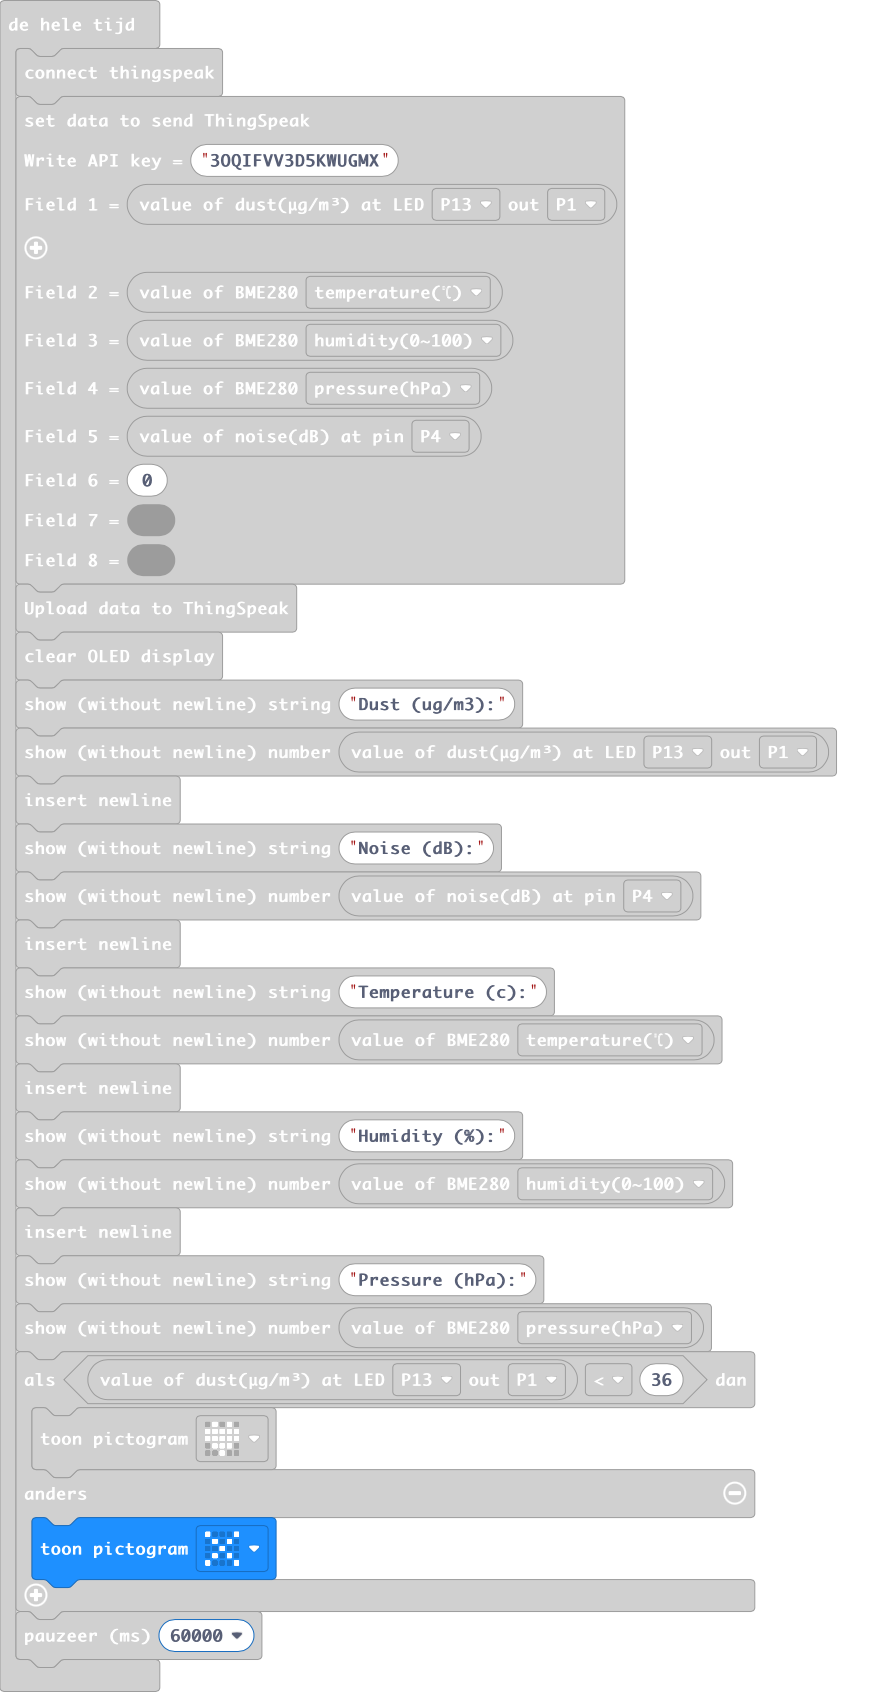
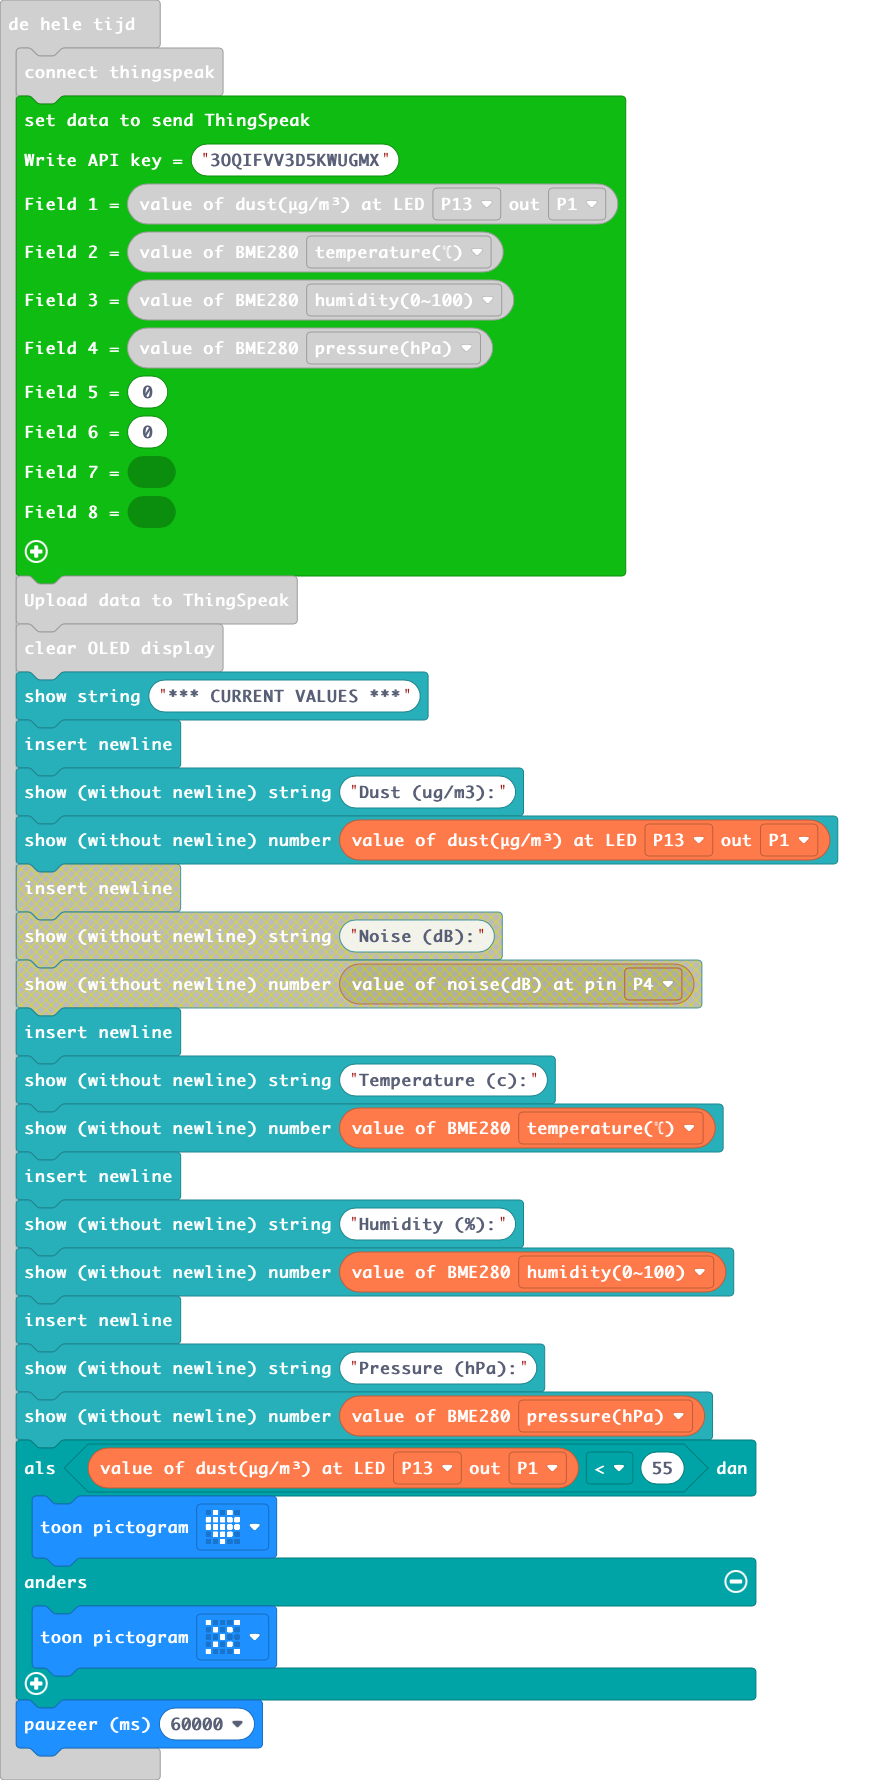
Noise sensor removed

diff --git a/main.ts b/main.ts
@@ -12,16 +12,15 @@ basic.forever(function () {
     Environment.octopus_BME280(Environment.BME280_state.BME280_temperature_C),
     Environment.octopus_BME280(Environment.BME280_state.BME280_humidity),
     Environment.octopus_BME280(Environment.BME280_state.BME280_pressure),
-    Environment.ReadNoise(AnalogPin.P4),
+    0,
     0
     )
     ESP8266_IoT.uploadData()
     OLED.clear()
+    OLED.writeStringNewLine("*** CURRENT VALUES ***")
+    OLED.newLine()
     OLED.writeString("Dust (ug/m3):")
     OLED.writeNum(Environment.ReadDust(DigitalPin.P13, AnalogPin.P1))
-    OLED.newLine()
-    OLED.writeString("Noise (dB):")
-    OLED.writeNum(Environment.ReadNoise(AnalogPin.P4))
     OLED.newLine()
     OLED.writeString("Temperature (c):")
     OLED.writeNum(Environment.octopus_BME280(Environment.BME280_state.BME280_temperature_C))
